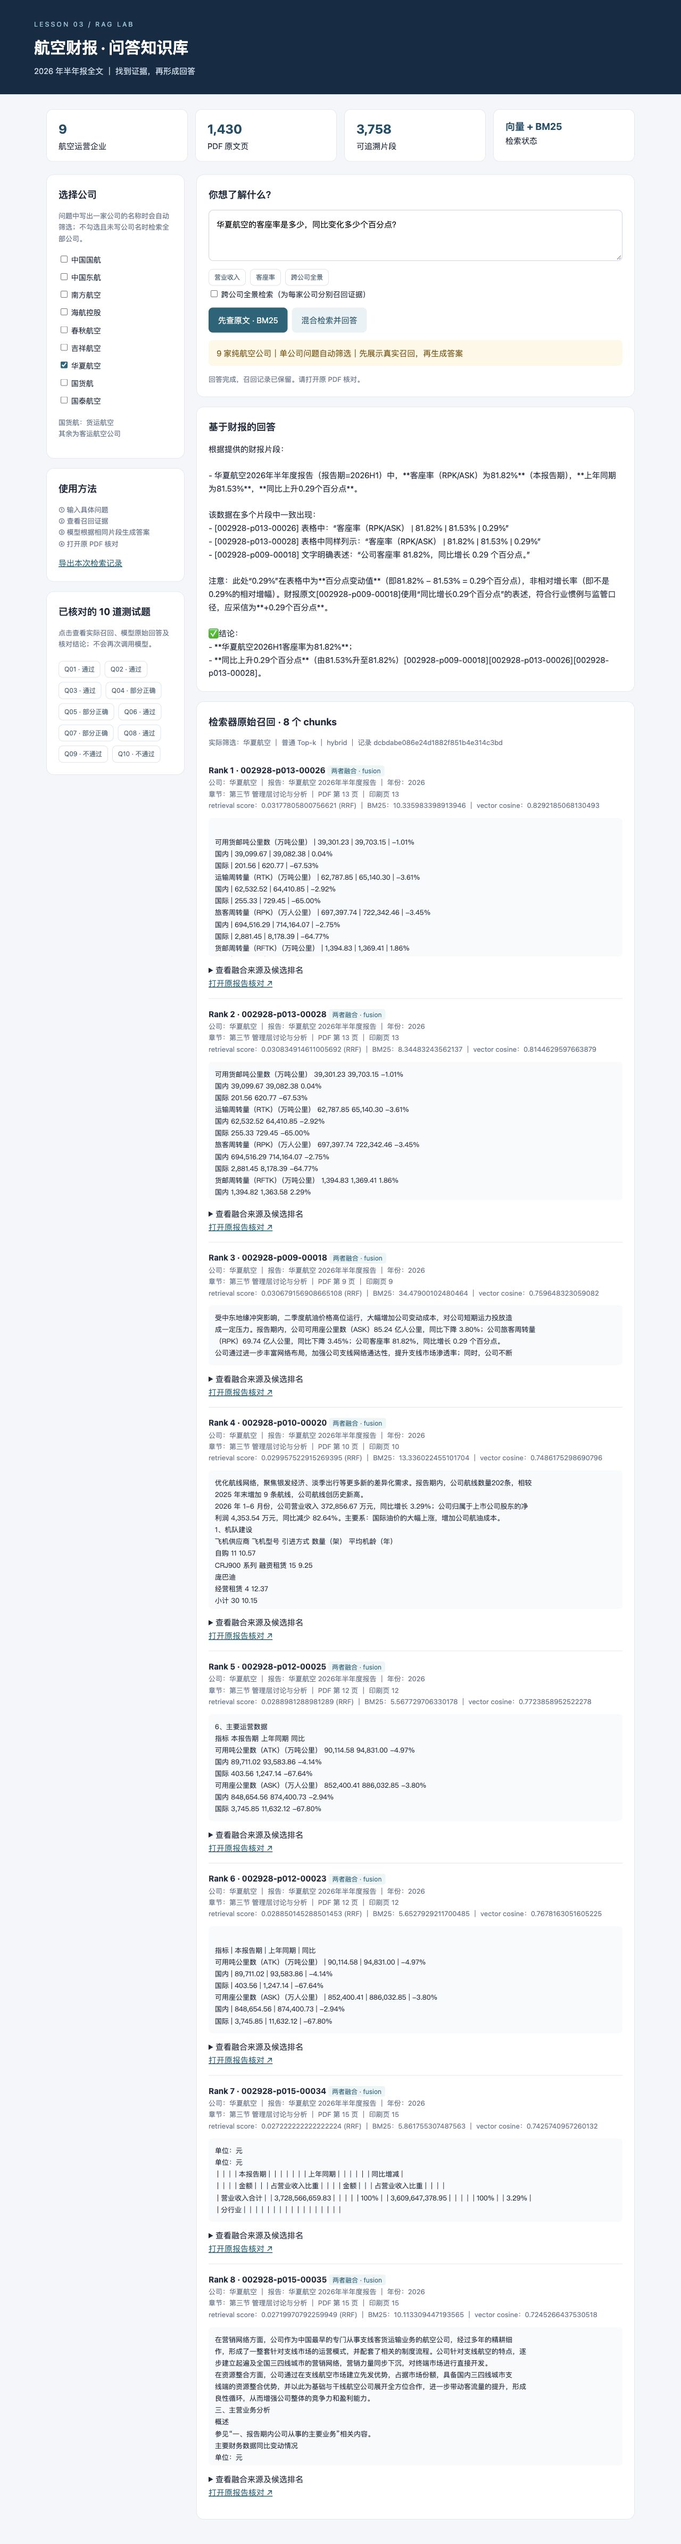
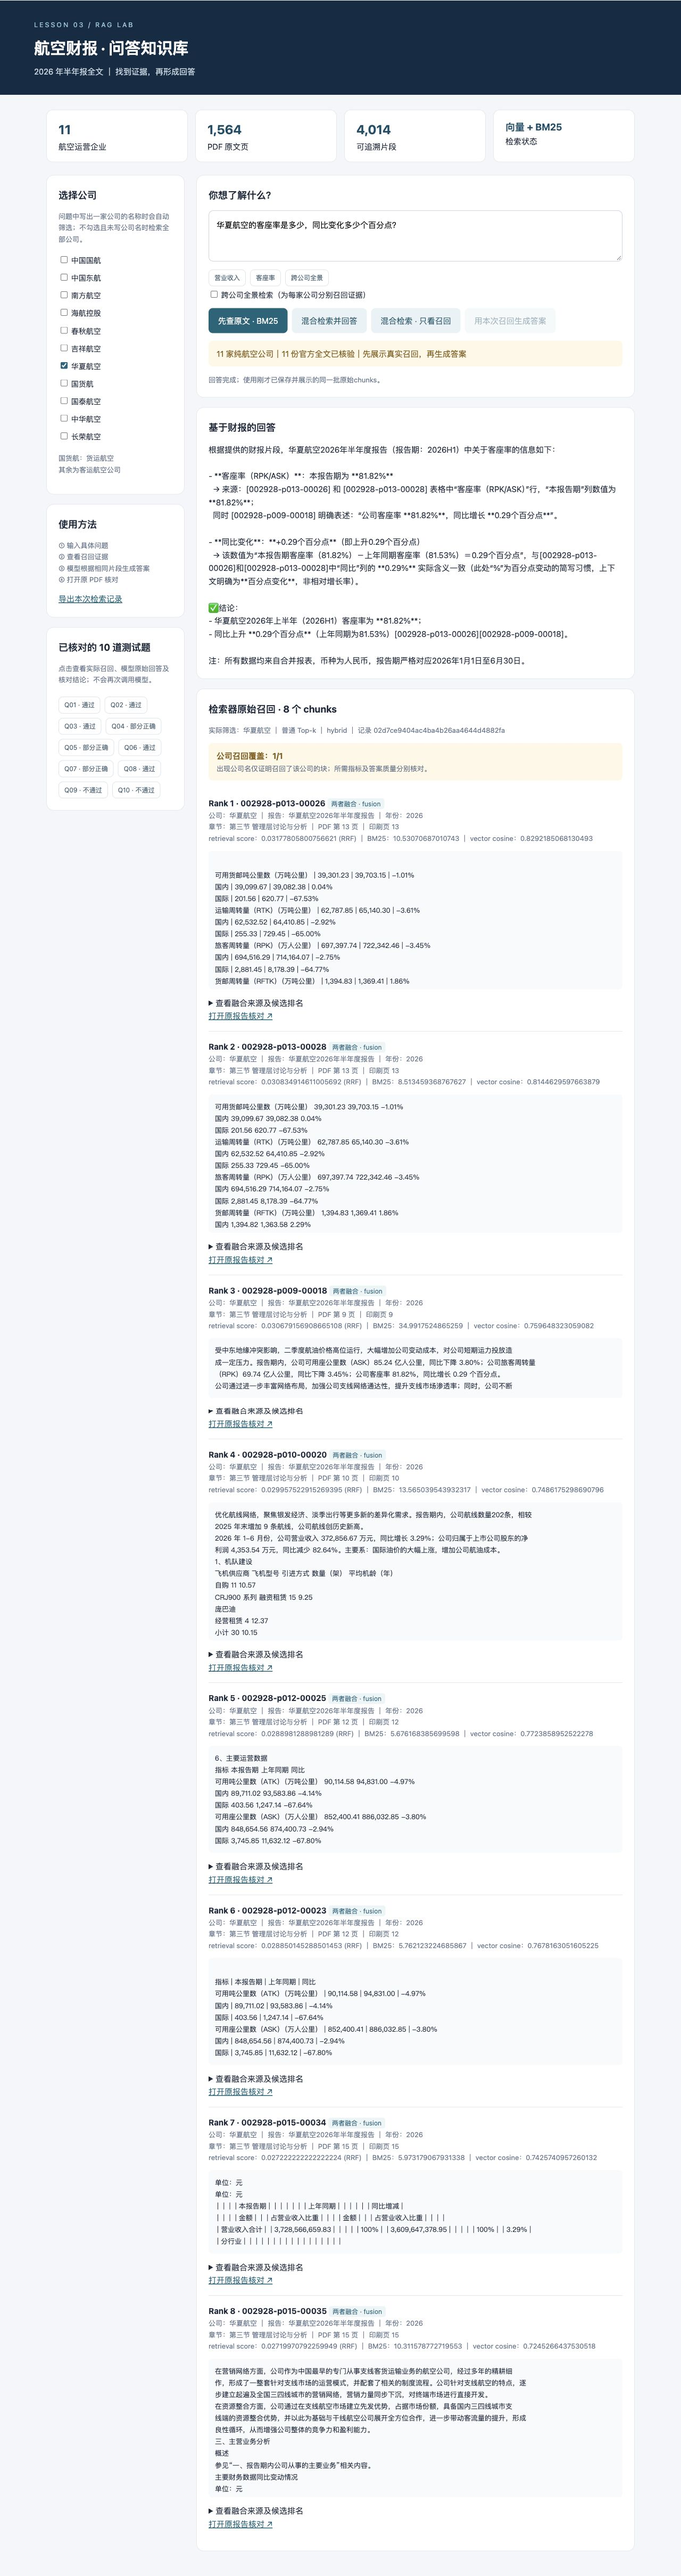
Replace homework screenshots with actual eleven-airline run

diff --git a/deliverables/screenshots/README.md b/deliverables/screenshots/README.md
@@ -1,8 +1,10 @@
-# 实际页面截图
+# 新版实际页面截图 · 2026-10-14
 
-- [答案生成前的真实召回](01_答案生成前真实召回.jpg)：已展示并保存 8 个华夏片段，模型答案尚未显示。
-- [华夏航空答案与召回](02_华夏航空答案与召回.jpg)：单公司问答，答案带块 ID 出处。
-- [全景题召回与核对](03_全景问题原始召回与核对.jpg)：9 家、27 个实际片段和失败原因。
-- [检索字段细节](04_华夏检索字段细节.jpg)：rank、ID、报告、章节、页码、分数、来源与原文。
+页面对应11家纯航空公司、1,564页、4,014个片段；截图来自实际应用界面。
 
-长截图可下载后放大查看；片段全文在网页中可滚动查看，也已保存到评测 JSONL/CSV。
+1. [答案生成前真实召回](01_答案生成前真实召回.jpg)：混合检索·只看召回后保存；尚未调用回答模型，request_id对应原始落盘chunks。
+2. [华夏航空答案与召回](02_华夏航空答案与召回.jpg)：随后用同一request_id的相同chunks生成实际回答，只召回华夏。
+3. [全景问题原始召回与核对](03_全景问题原始召回与核对.jpg)：新版Q09真实11家公司33块、模型原始答案、证据covered/partial/missing和不通过判定。
+4. [华夏检索字段细节](04_华夏检索字段细节.jpg)：新版Q02排名、块ID、报告、章节、页码、分数、全文和来源；公司覆盖与答案评价分开显示。
+
+前两张来自页面实际提问；后两张展示同套10题保存记录，不重复调用模型。片段完整文本可在滚动框与JSONL查看。旧版9家公司截图在evaluation/history仅作比较，请提交本目录新版本。
